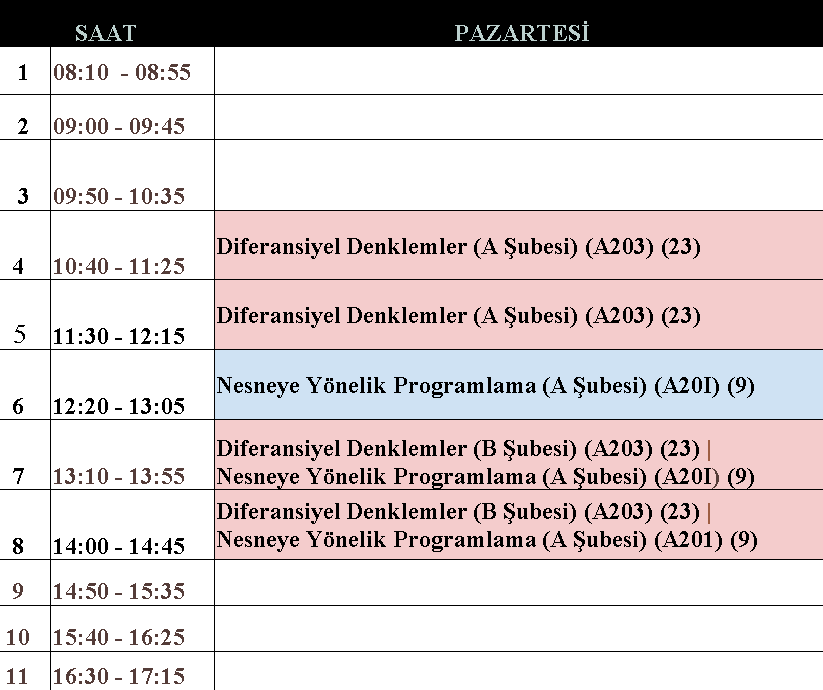
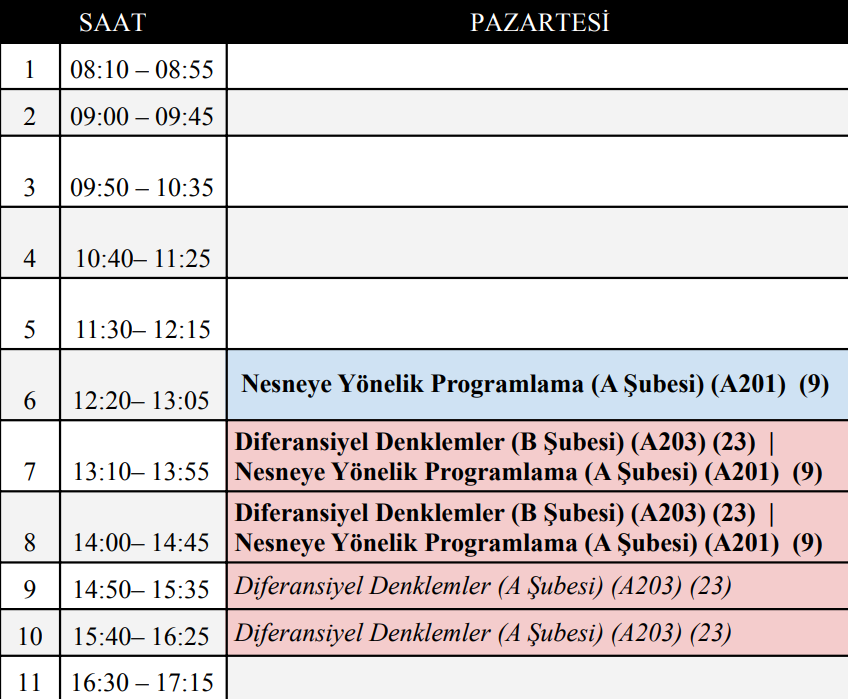
ders pr değişti

diff --git a/sayfalar/ders-programi.html b/sayfalar/ders-programi.html
@@ -123,14 +123,14 @@
           <th colspan="4">Pazartesi</th>
         </tr>
         <tr class="monday">
-          <td>DİF</td>
-          <td>A203</td>
-          <td>10.40-12.15</td>
-        </tr>
-        <tr class="monday">
           <td>NYP</td>
           <td>A201</td>
           <td>12.20-14.45</td>
+        </tr>
+        <tr class="monday">
+          <td>DİF</td>
+          <td>A203</td>
+          <td>14.50-16.25</td>
         </tr>
 
         <tr>

diff --git a/sayfalar/kyk-foto.html b/sayfalar/kyk-foto.html
@@ -38,6 +38,7 @@
       .resim {
         width: 100%; /* Resmin genişliği kutuya tam uyacak şekilde ayarlandı */
         border: 5px solid black; /* Resim için siyah kenar */
+        border-radius: 10px; /* Köşeleri yuvarlat */
         margin-bottom: 20px; /* Yazı ile araya boşluk ekle */
       }
 
